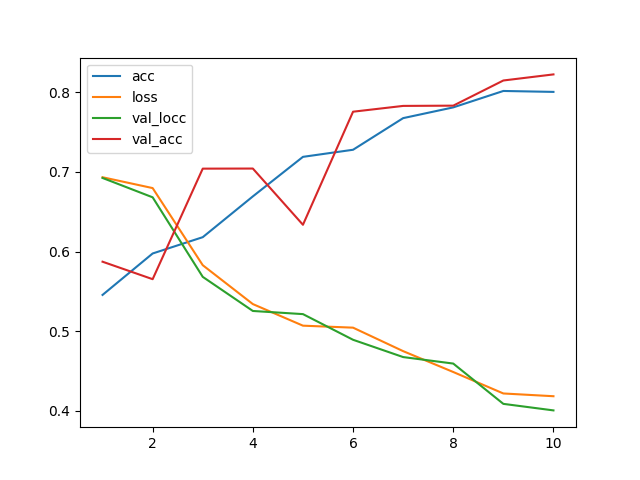
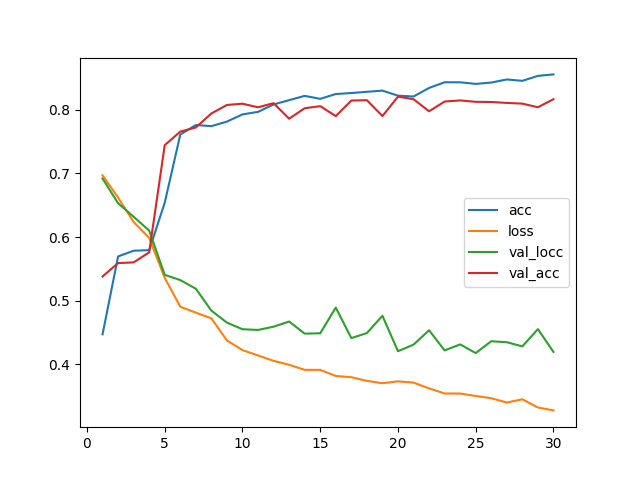
Experiment with crop size

diff --git a/segmentation_unet.py b/segmentation_unet.py
@@ -115,14 +115,17 @@ def main():
     parser = argparse.ArgumentParser()
     parser.add_argument('--size', type=int, dest='size', required=True, help='crop size')
     parser.add_argument('--model_name', type=str, dest='model_name', required=True, help='name of the model')
+    parser.add_argument('--epochs', type=int, default=10, help='number of epochs')
+    parser.add_argument('--crops_num', type=int, default=30, help='number of crops')
     parser.add_argument('--experiment_name', type=str, required=True, help='name of the experiment')
+    parser.add_argument('--batch_size', type=int, default=100, help='size of the training batch')
     args = parser.parse_args()
-    imgs_train, imgs_mask_train = load_data(args.size, args.size)
-    imgs_val, imgs_mask_val = load_data(args.size, args.size, start_index=3001)
+    imgs_train, imgs_mask_train = load_data(args.size, args.size, crops_num=args.crops_num)
+    imgs_val, imgs_mask_val = load_data(args.size, args.size, crops_num=args.crops_num, start_index=3001)
     model = get_unet_small(args.size, args.size)
     model_checkpoint = ModelCheckpoint(args.model_name + '.hdf5', monitor='loss',verbose=1, save_best_only=True)
     print('Fitting model...')
-    history = model.fit(imgs_train, imgs_mask_train, batch_size=100, epochs=10,
+    history = model.fit(imgs_train, imgs_mask_train, batch_size=args.batch_size, epochs=args.epochs,
                         verbose=1,validation_split=0.2, shuffle=True, callbacks=[model_checkpoint])
     generate_report(args, history, args.experiment_name)
    

diff --git a/experiments/basic_unet_32/report.md b/experiments/basic_unet_32/report.md
@@ -1,4 +1,4 @@
 # basic_unet_32
-Arguments: Namespace(experiment_name='basic_unet_32', model_name='gta_unet_32', size=32)
+Arguments: Namespace(crops_num=50, epochs=30, experiment_name='basic_unet_32', model_name='gta_unet_32', size=32)
 
 ![plot](plot.png)

diff --git a/experiments/basic_unet_512/report.md b/experiments/basic_unet_512/report.md
@@ -1,0 +1,4 @@
+# basic_unet_512
+Arguments: Namespace(batch_size=10, crops_num=10, epochs=30, experiment_name='basic_unet_512', model_name='gta_unet_512', size=512)
+
+![plot](plot.png)

diff --git a/experiments/basic_unet_128/report.md b/experiments/basic_unet_128/report.md
@@ -1,0 +1,4 @@
+# basic_unet_128
+Arguments: Namespace(crops_num=50, epochs=30, experiment_name='basic_unet_128', model_name='gta_unet_128', size=128)
+
+![plot](plot.png)

diff --git a/experiments/basic_unet_256/report.md b/experiments/basic_unet_256/report.md
@@ -1,0 +1,4 @@
+# basic_unet_256
+Arguments: Namespace(crops_num=50, epochs=30, experiment_name='basic_unet_256', model_name='gta_unet_256', size=256)
+
+![plot](plot.png)

diff --git a/experiments/basic_unet_64/report.md b/experiments/basic_unet_64/report.md
@@ -1,0 +1,4 @@
+# basic_unet_64
+Arguments: Namespace(crops_num=50, epochs=30, experiment_name='basic_unet_64', model_name='gta_unet_64', size=64)
+
+![plot](plot.png)
